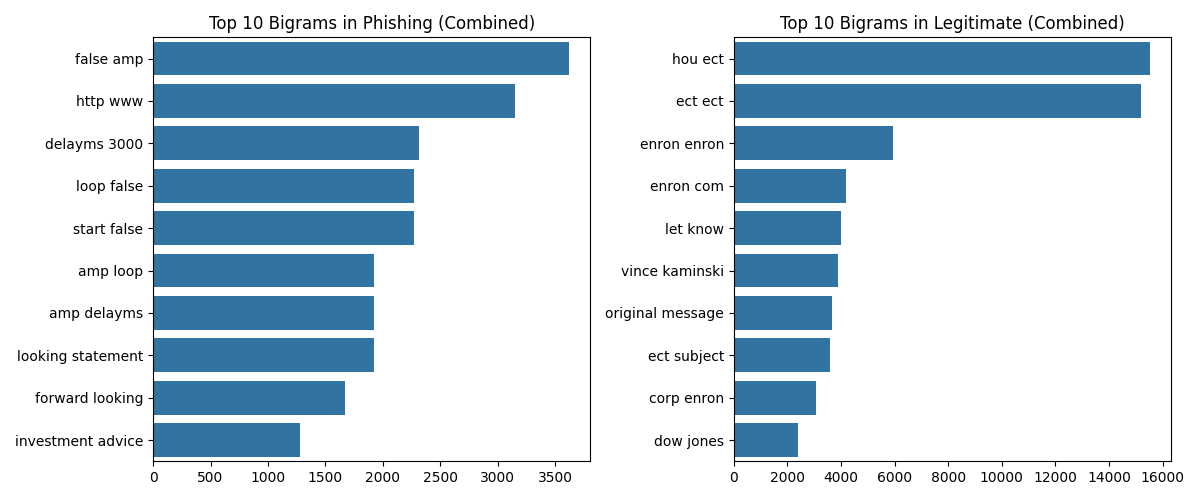
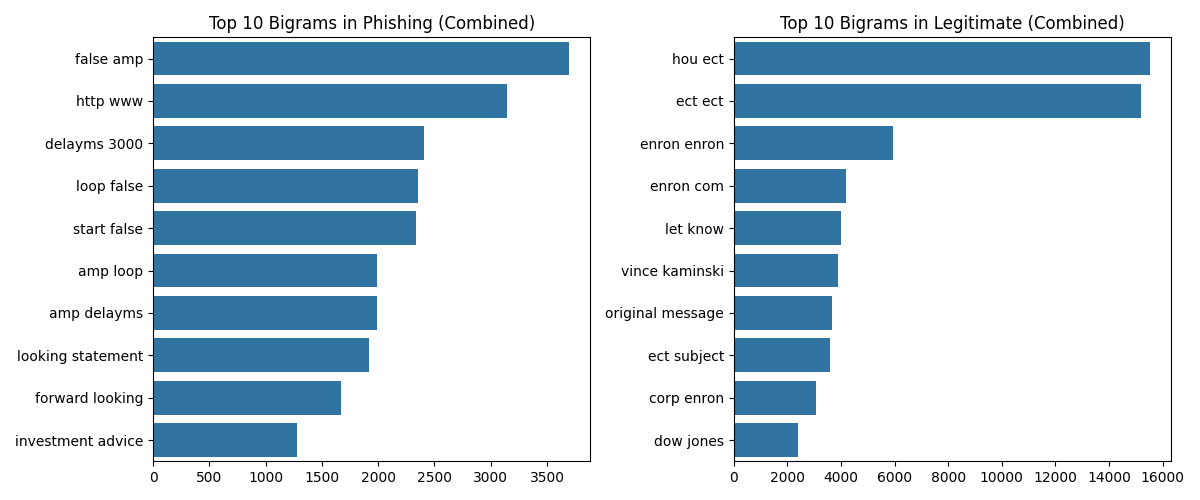
EDA result update

diff --git a/results/eda/summary.md b/results/eda/summary.md
@@ -11,16 +11,16 @@
 **Top Phishing Trigrams**: [(('forward', 'looking', 'statement'), 1619), (('statement', 'within', 'meaning'), 661), (('www', 'computron', 'com'), 627), (('phone', 'mobile', 'email'), 508), (('security', 'act', 'section'), 503), (('forward', 'ooking', 'statement'), 486), (('security', 'exchange', 'act'), 476), (('nbsp', 'nbsp', 'nbsp'), 470), (('within', 'meaning', 'section'), 466), (('number', 'risk', 'uncertainty'), 461)]
 **Top Legitimate Trigrams**: [(('hou', 'ect', 'ect'), 13107), (('ect', 'ect', 'subject'), 3468), (('corp', 'enron', 'enron'), 2393), (('please', 'let', 'know'), 2009), (('vince', 'kaminski', 'hou'), 1678), (('kaminski', 'hou', 'ect'), 1678), (('lon', 'ect', 'ect'), 1646), (('copyright', 'dow', 'jones'), 1500), (('dow', 'jones', 'company'), 1125), (('jones', 'company', 'inc'), 1124)]
 ## PhishTank
-**Summary**: {'Size': 64323, 'Columns': ['text', 'label', 'url'], 'Missing Values': {'text': 0, 'label': 0, 'url': 0}, 'Duplicates': np.int64(0)}
-**Label Distribution**: {1: 64323}
-**Text Stats**: {'Char Length Mean': np.float64(47.07777933243163), 'Char Length Median': np.float64(27.0), 'Word Length Mean': np.float64(2.08034451129456), 'Word Length Median': np.float64(1.0)}
-**Top Phishing Words**: [('amp', 12313), ('false', 10341), ('start', 5552), ('loop', 5480), ('delayms', 5479), ('3000', 5277), ('slide', 1481), ('id.p', 1447), ('true', 833), ('rlkey', 443)]
+**Summary**: {'Size': 64157, 'Columns': ['text', 'label', 'url'], 'Missing Values': {'text': 0, 'label': 0, 'url': 0}, 'Duplicates': np.int64(0)}
+**Label Distribution**: {1: 64157}
+**Text Stats**: {'Char Length Mean': np.float64(46.80974796203064), 'Char Length Median': np.float64(27.0), 'Word Length Mean': np.float64(2.772246208519725), 'Word Length Median': np.float64(1.0)}
+**Top Phishing Words**: [('amp', 12313), ('false', 10341), ('start', 5753), ('loop', 5480), ('delayms', 5479), ('3000', 5277), ('docs.google.com/presentation/d/e/2pacx', 5042), ('pub', 2490), ('slide', 1481), ('id.p', 1447)]
 **Top Legitimate Words**: []
 **Top Phishing Bigrams**: [(('false', 'amp'), 8142), (('delayms', '3000'), 5273), (('loop', 'false'), 5167), (('start', 'false'), 5130), (('amp', 'loop'), 4370), (('amp', 'delayms'), 4370), (('slide', 'id.p'), 1444), (('false', 'delayms'), 1074), (('false', 'loop'), 1061), (('amp', 'slide'), 905)]
 **Top Legitimate Bigrams**: []
 **Top Phishing Trigrams**: [(('amp', 'delayms', '3000'), 4197), (('amp', 'loop', 'false'), 4089), (('loop', 'false', 'amp'), 4088), (('false', 'amp', 'delayms'), 4084), (('start', 'false', 'amp'), 4047), (('false', 'amp', 'loop'), 4038), (('loop', 'false', 'delayms'), 1074), (('start', 'false', 'loop'), 1061), (('false', 'loop', 'false'), 1060), (('false', 'delayms', '3000'), 1050)]
 **Top Legitimate Trigrams**: []
-**URL Stats**: {}
+**URL Stats**: {'Top TLDs': {'com': 26425, 'io': 4504, 'xin': 4442, 'dev': 3199, 'ly': 2948, 'app': 2749, 'de': 2602, 'me': 2573, 'to': 1965, 'vip': 1956}, 'Domain Length Mean': np.float64(20.188178998394562), 'Domain Length Median': np.float64(19.0)}
 ## UCI
 **Summary**: {'Size': 5849, 'Columns': ['having_IP_Address', 'URL_Length', 'Shortining_Service', 'having_At_Symbol', 'double_slash_redirecting', 'Prefix_Suffix', 'having_Sub_Domain', 'SSLfinal_State', 'Domain_registeration_length', 'Favicon', 'port', 'HTTPS_token', 'Request_URL', 'URL_of_Anchor', 'Links_in_tags', 'SFH', 'Submitting_to_email', 'Abnormal_URL', 'Redirect', 'on_mouseover', 'RightClick', 'popUpWidnow', 'Iframe', 'age_of_domain', 'DNSRecord', 'web_traffic', 'Page_Rank', 'Google_Index', 'Links_pointing_to_page', 'Statistical_report', 'label'], 'Missing Values': {'having_IP_Address': 0, 'URL_Length': 0, 'Shortining_Service': 0, 'having_At_Symbol': 0, 'double_slash_redirecting': 0, 'Prefix_Suffix': 0, 'having_Sub_Domain': 0, 'SSLfinal_State': 0, 'Domain_registeration_length': 0, 'Favicon': 0, 'port': 0, 'HTTPS_token': 0, 'Request_URL': 0, 'URL_of_Anchor': 0, 'Links_in_tags': 0, 'SFH': 0, 'Submitting_to_email': 0, 'Abnormal_URL': 0, 'Redirect': 0, 'on_mouseover': 0, 'RightClick': 0, 'popUpWidnow': 0, 'Iframe': 0, 'age_of_domain': 0, 'DNSRecord': 0, 'web_traffic': 0, 'Page_Rank': 0, 'Google_Index': 0, 'Links_pointing_to_page': 0, 'Statistical_report': 0, 'label': 0}, 'Duplicates': np.int64(0)}
 **Label Distribution**: {1: 3019, 0: 2830}
@@ -89,17 +89,17 @@ on_mouseover                   0.004109
 port                           0.002893
 Iframe                         0.002882
 RightClick                     0.001881
-## Combined (Enron + PhishTank)
+## Combined (Enron + PhishTank - Pre-SMOTE)
 **Summary**: {'Size': 57860, 'Columns': ['text', 'label'], 'Missing Values': {'text': 0, 'label': 0}, 'Duplicates': np.int64(0)}
 **Label Distribution**: {1: 43412, 0: 14448}
-**Text Stats**: {'Char Length Mean': np.float64(508.4370895264431), 'Char Length Median': np.float64(116.0), 'Word Length Mean': np.float64(68.53486000691323), 'Word Length Median': np.float64(9.0)}
-**Top Phishing Words**: [('company', 11822), ('com', 9786), ('http', 7622), ('email', 7263), ('information', 6506), ('please', 6194), ('price', 6193), ('statement', 6019), ('security', 5434), ('amp', 5403)]
+**Text Stats**: {'Char Length Mean': np.float64(508.56011061182164), 'Char Length Median': np.float64(119.0), 'Word Length Mean': np.float64(68.90058762530245), 'Word Length Median': np.float64(11.0)}
+**Top Phishing Words**: [('company', 11823), ('com', 10216), ('http', 7633), ('email', 7298), ('information', 6507), ('please', 6196), ('price', 6193), ('statement', 6020), ('amp', 5653), ('security', 5440)]
 **Top Legitimate Words**: [('enron', 52435), ('ect', 33917), ('hou', 16243), ('please', 12110), ('company', 11847), ('com', 11739), ('would', 11431), ('subject', 11421), ('said', 8903), ('energy', 8736)]
-**Top Phishing Bigrams**: [(('false', 'amp'), 3623), (('http', 'www'), 3147), (('delayms', '3000'), 2314), (('loop', 'false'), 2275), (('start', 'false'), 2269), (('amp', 'loop'), 1922), (('amp', 'delayms'), 1921), (('looking', 'statement'), 1920), (('forward', 'looking'), 1668), (('investment', 'advice'), 1279)]
+**Top Phishing Bigrams**: [(('false', 'amp'), 3699), (('http', 'www'), 3147), (('delayms', '3000'), 2404), (('loop', 'false'), 2356), (('start', 'false'), 2339), (('amp', 'loop'), 1991), (('amp', 'delayms'), 1991), (('looking', 'statement'), 1920), (('forward', 'looking'), 1668), (('investment', 'advice'), 1279)]
 **Top Legitimate Bigrams**: [(('hou', 'ect'), 15523), (('ect', 'ect'), 15175), (('enron', 'enron'), 5935), (('enron', 'com'), 4185), (('let', 'know'), 3997), (('vince', 'kaminski'), 3881), (('original', 'message'), 3667), (('ect', 'subject'), 3583), (('corp', 'enron'), 3081), (('dow', 'jones'), 2399)]
-**Top Phishing Trigrams**: [(('amp', 'delayms', '3000'), 1850), (('amp', 'loop', 'false'), 1817), (('loop', 'false', 'amp'), 1816), (('false', 'amp', 'delayms'), 1814), (('start', 'false', 'amp'), 1803), (('false', 'amp', 'loop'), 1798), (('forward', 'looking', 'statement'), 1619), (('statement', 'within', 'meaning'), 661), (('www', 'computron', 'com'), 627), (('phone', 'mobile', 'email'), 508)]
+**Top Phishing Trigrams**: [(('amp', 'delayms', '3000'), 1909), (('amp', 'loop', 'false'), 1859), (('loop', 'false', 'amp'), 1858), (('false', 'amp', 'delayms'), 1855), (('start', 'false', 'amp'), 1838), (('false', 'amp', 'loop'), 1834), (('forward', 'looking', 'statement'), 1619), (('statement', 'within', 'meaning'), 661), (('www', 'computron', 'com'), 627), (('phone', 'mobile', 'email'), 508)]
 **Top Legitimate Trigrams**: [(('hou', 'ect', 'ect'), 13107), (('ect', 'ect', 'subject'), 3468), (('corp', 'enron', 'enron'), 2393), (('please', 'let', 'know'), 2009), (('vince', 'kaminski', 'hou'), 1678), (('kaminski', 'hou', 'ect'), 1678), (('lon', 'ect', 'ect'), 1646), (('copyright', 'dow', 'jones'), 1500), (('dow', 'jones', 'company'), 1125), (('jones', 'company', 'inc'), 1124)]
 **Token Stats**: {'Token Length Mean': np.float64(512.0), 'Token Length Median': np.float64(512.0), 'Token Length Max': np.int64(512)}
-## Balanced (SMOTE)
-**Summary**: {'Size': 2, 'Columns': ['label'], 'Missing Values': {'label': 0}, 'Duplicates': np.int64(0)}
-**Label Distribution**: {0: 1, 1: 1}
+## Balanced (SMOTE Applied on Combined)
+**Summary**: {'Size': 57860, 'Columns': ['text', 'label'], 'Missing Values': {'text': 0, 'label': 0}, 'Duplicates': np.int64(0)}
+**Label Distribution**: {1: 43412, 0: 14448}
